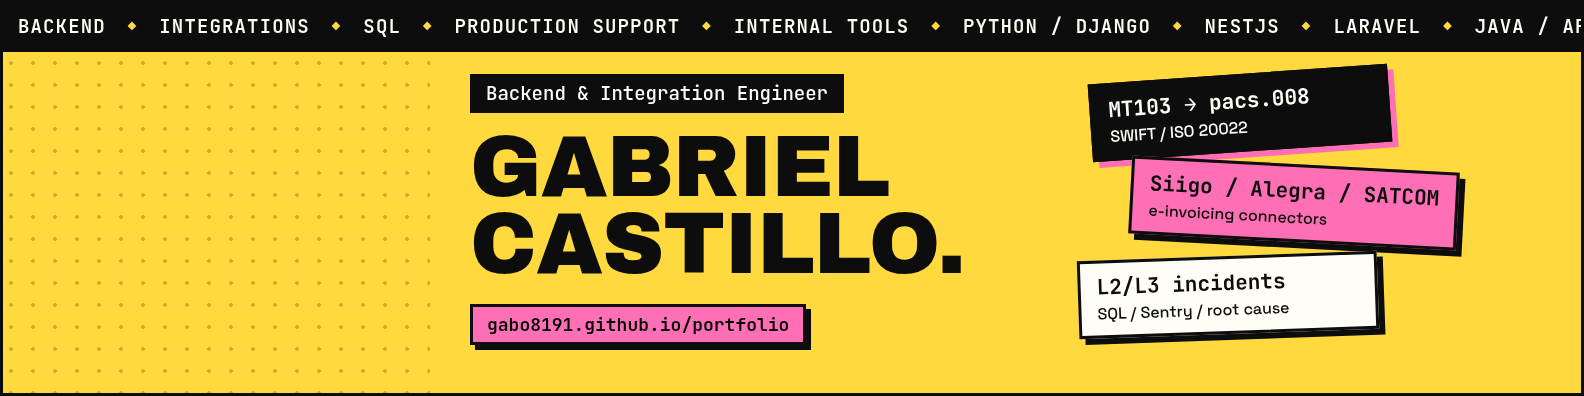
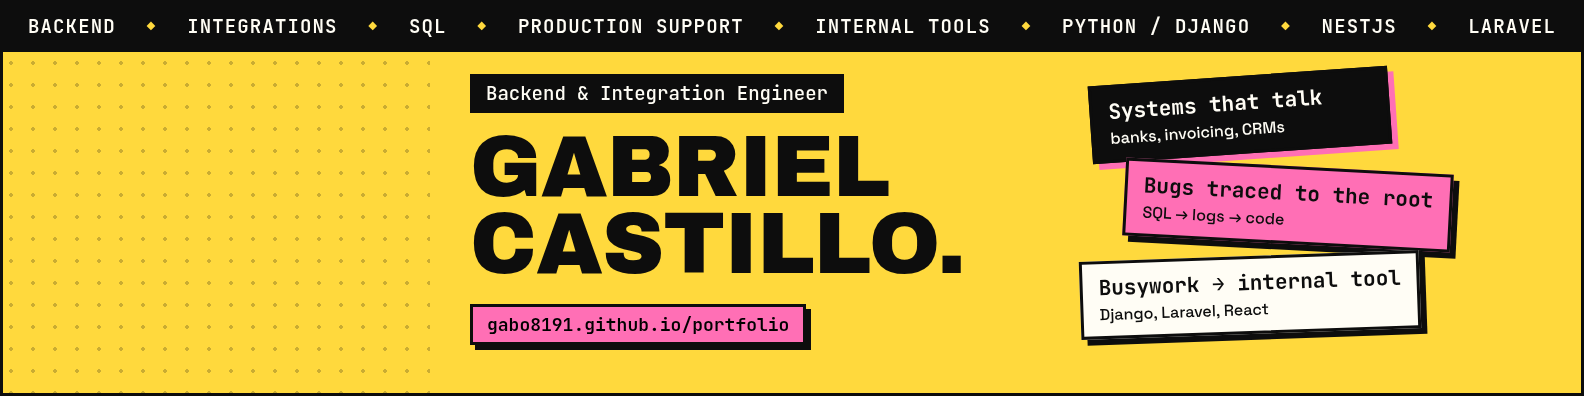
feat(assets): swap technical stickers for outcomes and sync experience with the CV

diff --git a/scripts/build_linkedin_banner.py b/scripts/build_linkedin_banner.py
@@ -19,7 +19,7 @@ import subprocess
 import tempfile
 from pathlib import Path
 
-from build_assets import FONT_CACHE, INK, MARQUEE_ITEMS, PAPER, PINK, YELLOW
+from build_assets import FONT_CACHE, INK, PAPER, PINK, YELLOW
 
 ROOT = Path(__file__).resolve().parent.parent
 OUTPUT = ROOT / "assets" / "linkedin-banner.png"
@@ -27,9 +27,21 @@ WIDTH, HEIGHT = 1584, 396
 
 # (title, caption, fill, text color, x, y, rotation in degrees)
 STICKERS = [
-    ("MT103 → pacs.008", "SWIFT / ISO 20022", INK, PAPER, 1090, 74, -4),
-    ("Siigo / Alegra / SATCOM", "e-invoicing connectors", PINK, INK, 1130, 164, 3),
-    ("L2/L3 incidents", "SQL / Sentry / root cause", PAPER, INK, 1078, 256, -2),
+    ("Systems that talk", "banks, invoicing, CRMs", INK, PAPER, 1090, 76, -4),
+    ("Bugs traced to the root", "SQL → logs → code", PINK, INK, 1124, 166, 3),
+    ("Busywork → internal tool", "Django, Laravel, React", PAPER, INK, 1080, 256, -2),
+]
+
+# A static banner cannot scroll, so the strip only carries what fits whole
+STRIP_ITEMS = [
+    "BACKEND",
+    "INTEGRATIONS",
+    "SQL",
+    "PRODUCTION SUPPORT",
+    "INTERNAL TOOLS",
+    "PYTHON / DJANGO",
+    "NESTJS",
+    "LARAVEL",
 ]
 
 
@@ -45,7 +57,7 @@ def sticker_html(
 
 
 def page() -> str:
-    marquee = "".join(f"<span>{item}</span><i>◆</i>" for item in MARQUEE_ITEMS * 2)
+    marquee = "<i>◆</i>".join(f"<span>{item}</span>" for item in STRIP_ITEMS)
     stickers = "".join(sticker_html(*sticker) for sticker in STICKERS)
     fonts = FONT_CACHE.resolve()
     return f"""<!doctype html>
@@ -57,8 +69,8 @@ def page() -> str:
 body {{ width: {WIDTH}px; height: {HEIGHT}px; overflow: hidden; background: {YELLOW};
         font-family: Mono, monospace; position: relative; }}
 .strip {{ position: absolute; inset: 0 0 auto 0; height: 52px; background: {INK};
-          color: {PAPER}; display: flex; align-items: center; gap: 22px; white-space: nowrap;
-          font-weight: 600; font-size: 19px; letter-spacing: 0.06em; padding-left: 18px; }}
+          color: {PAPER}; display: flex; align-items: center; justify-content: space-between; white-space: nowrap;
+          font-weight: 600; font-size: 19px; letter-spacing: 0.06em; padding: 0 28px; }}
 .strip i {{ color: {YELLOW}; font-style: normal; font-size: 14px; }}
 /* Dotted desk behind the profile photo: decoration only, nothing to read */
 .desk {{ position: absolute; left: 0; top: 52px; width: 430px; bottom: 0;

diff --git a/scripts/build_assets.py b/scripts/build_assets.py
@@ -273,15 +273,15 @@ def build_header(template: dict[str, Face]) -> str:
     )
 
     stickers = [
-        Sticker("MT103 → pacs.008", "SWIFT · ISO 20022", INK, PAPER, 800, 88, -5),
+        Sticker("Systems that talk", "banks, invoicing, CRMs", INK, PAPER, 796, 88, -5),
         Sticker(
-            "Siigo · Alegra · SATCOM", "e-invoicing connectors", PINK, INK, 836, 174, 4
+            "Bugs traced to the root", "SQL → logs → code", PINK, INK, 806, 174, 4
         ),
         Sticker(
-            "L2/L3 incidents", "SQL · Sentry · war rooms", PAPER, INK, 790, 260, -3
+            "Busywork → internal tool", "Django, Laravel, React", PAPER, INK, 780, 262, -3
         ),
         Sticker(
-            "Django + Celery", "PBIX → Tableau estimates", BLUE, PAPER, 866, 342, 5
+            "Bank messages, translated", "SWIFT to ISO 20022", BLUE, PAPER, 800, 346, 4
         ),
     ]
     # Stickers fall in below the marquee strip, never over it
@@ -292,7 +292,7 @@ def build_header(template: dict[str, Face]) -> str:
     )
 
     footer_line = (
-        "Python/Django · NestJS · Laravel · Java · SQL — Tunja, Colombia · Remote"
+        "Python/Django, NestJS, Laravel, Java, SQL | Tunja, Colombia | Remote"
     )
     body = f"""
   <defs>{clips}<clipPath id="desk"><rect x="0" y="52" width="{width}" height="{height - 52}"/></clipPath></defs>

diff --git a/README.md b/README.md
@@ -1,6 +1,6 @@
 <div align="center">
 
-<img src="assets/header.svg" alt="Gabriel Castillo — Backend and Integration Engineer. Stickers: MT103 to pacs.008 (SWIFT, ISO 20022), Siigo · Alegra · SATCOM e-invoicing connectors, L2/L3 incidents, Django + Celery." width="100%"/>
+<img src="assets/header.svg" alt="Gabriel Castillo — Backend and Integration Engineer. Stickers: systems that talk (banks, invoicing, CRMs), bugs traced to the root, busywork turned into internal tools, bank messages translated from SWIFT to ISO 20022." width="100%"/>
 
 <br/>
 
@@ -92,10 +92,8 @@ Recording and transcription app for neuropsychology sessions, where the audio ne
 
 <br/>
 
-> Data consulting; Power BI to Tableau dashboard migration
-
-- Designed and built an internal **Django** application that reads PBIX files, scores dashboard complexity with AHP and estimates Tableau migration hours with PERT. The team uses its estimates; formal deployment is pending.
-- Built a **DRF API**, Celery and Redis background analysis, PostgreSQL persistence and an eleven-sheet Excel workbook per dashboard on a hexagonal architecture.
+- Designed and built a **Django** application that analyzes PBIX files, scores each dashboard's complexity and estimates Power BI to Tableau migration hours; the team uses its estimates to plan migrations.
+- Built the REST API with **DRF**, asynchronous analysis with Celery and Redis and per-dashboard Excel reports, on PostgreSQL and a hexagonal architecture with 81% test coverage.
 - Prepared and validated data with **SQL and Python** for dashboard analysis and migration.
 
 `Python` `Django` `DRF` `Celery` `Redis` `PostgreSQL` `SQL`
@@ -107,11 +105,9 @@ Recording and transcription app for neuropsychology sessions, where the audio ne
 
 <br/>
 
-> Custom software; overlapped with PARQ until Jul. 2025
-
-- Added MT message support to a **Java/Apache Camel** gateway: MT103 and MT202 parsers and validators, JSON mapping files, and automated MT to pacs.008 and pacs.009 to MT202 flows.
-- Built most of an electoral inventory platform in **Laravel and React**: bulk imports with row-level errors, department and municipality permissions, Excel reports, and queued, cached PDF and ZIP generation.
-- Built a QR-scanning **PWA** for plant operators with its Filament backend, and guest registration with one-use QR codes and event-driven email.
+- Added SWIFT MT support to an interbank gateway in **Java/Apache Camel**: MT103 and MT202 validation and automated ISO 20022 conversion (MT to pacs.008 and pacs.009 to MT202).
+- Developed the core modules of an electoral inventory platform in **Laravel and React**: bulk imports with row-level validation, regional permissions, Excel reports and queued PDF generation.
+- Built a QR-scanning **PWA** for the operators of an industrial plant and its Laravel/Filament backend, with approvals, PDF delivery notes and monthly inventory reports.
 
 `Java` `Apache Camel` `SWIFT` `ISO 20022` `Laravel` `Filament` `React` `PWA`
 
@@ -122,11 +118,9 @@ Recording and transcription app for neuropsychology sessions, where the audio ne
 
 <br/>
 
-> Parking platform for Colombia, Mexico and the UK
-
 - Extended the **SATCOM, Siigo and Alegra** electronic invoicing connectors in a Laravel middleware: queued resend of failed invoices, company registration with providers, and per-request tracing.
-- Maintained **NestJS** services on TypeORM and shared PostgreSQL: country-specific rates, queued bulk membership creation and consistent timezones in reports; fixed production data inconsistencies.
-- Built the corporate **Next.js** site with SSR, i18n and SEO; documented APIs with OpenAPI and took part in Docker and Portainer deployments.
+- Maintained the **NestJS and PostgreSQL** services of a parking platform in Colombia, Mexico and the UK: country-specific rates, queued bulk membership creation and consistent timezones in reports.
+- Built the corporate **Next.js** site with SSR, i18n and SEO and documented the APIs with OpenAPI.
 
 `NestJS` `TypeORM` `PostgreSQL` `Laravel` `Next.js` `OpenAPI`
 
@@ -137,11 +131,9 @@ Recording and transcription app for neuropsychology sessions, where the audio ne
 
 <br/>
 
-> Started as a SENA intern; permanent contract from Jul. 2023
-
-- Handled **L2/L3 production incidents** and joined war rooms; diagnosed failures through SQL, code review and Sentry, and documented root causes.
+- Diagnosed **L2/L3 production incidents** by tracing each failure through SQL, code review and Sentry, and documented its root cause.
 - Built **Laravel APIs** for a benefits platform in more than five Latin American countries, with queues for validated payment uploads, duplicate cleanup and notifications.
-- Built queries, **PL/SQL** procedures and Excel exports for other teams; optimized large listings and used Docker/DDEV for legacy systems.
+- Wrote queries, **PL/SQL** procedures and Excel exports for other teams, and containerized legacy systems with Docker/DDEV.
 
 `Laravel` `MySQL` `Oracle PL/SQL` `Sentry` `Docker` `Redis`
 
